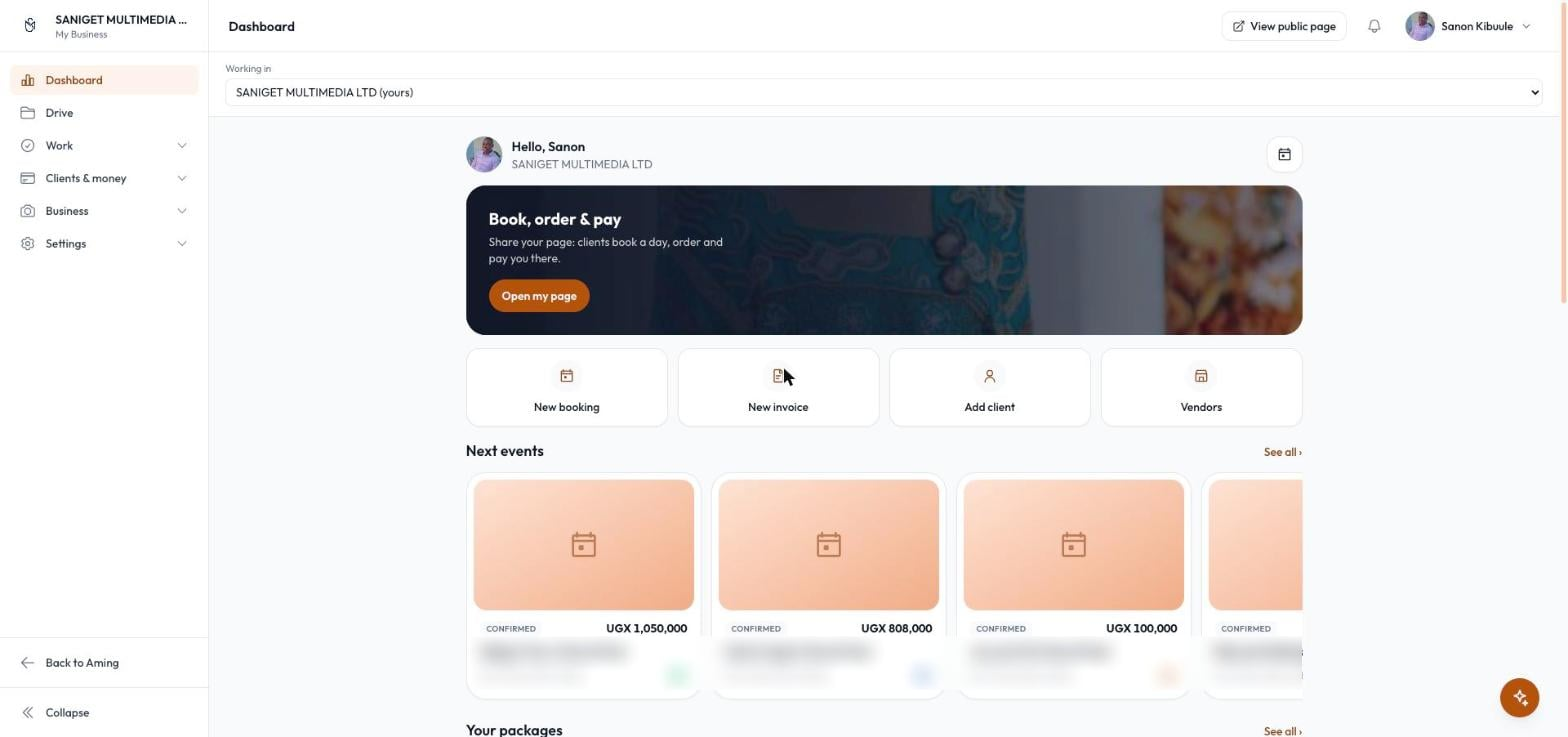
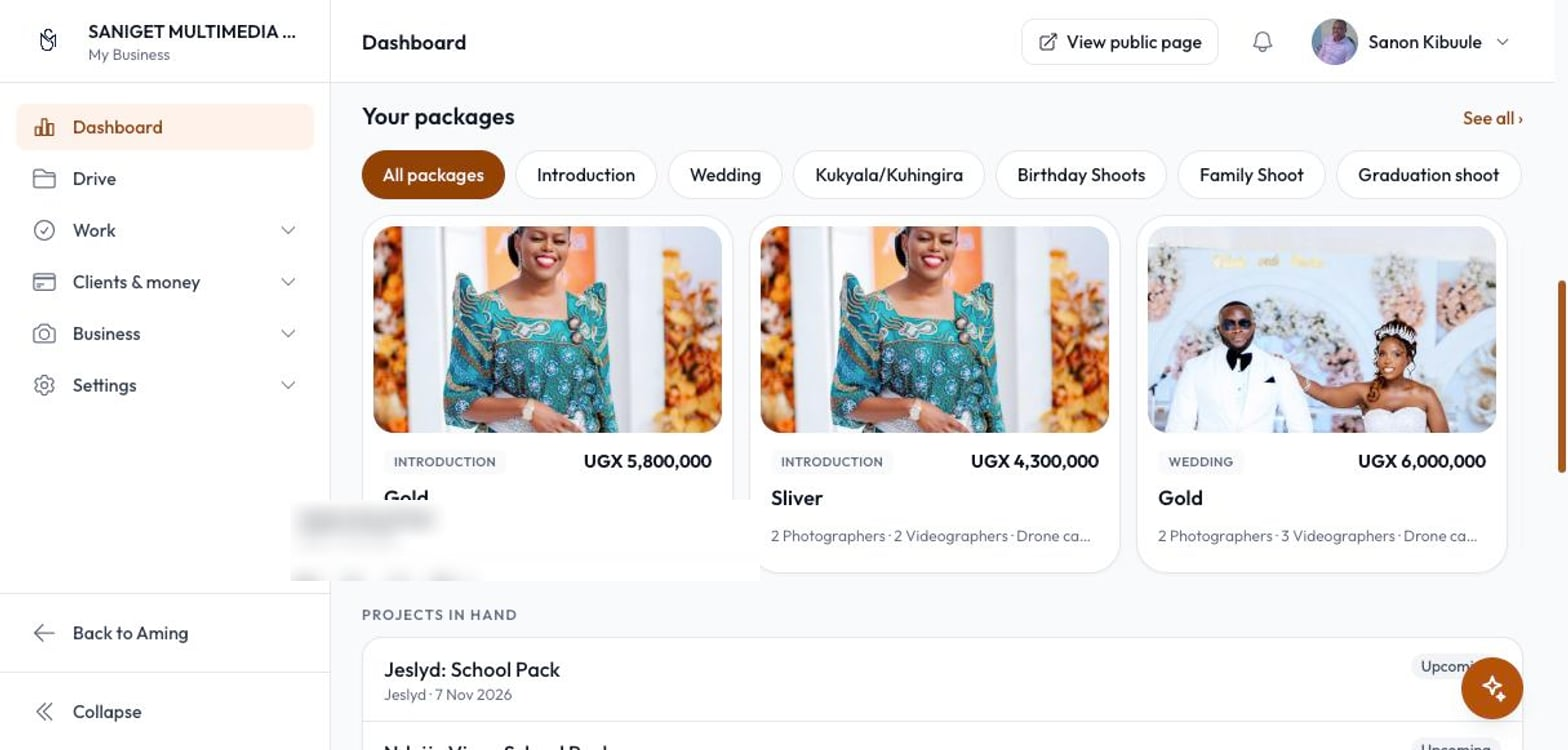
Front page: the walkthrough plays by itself like GitHub's (a bar fills under each tab, 6 s each; a click stops it; still for reduced motion), the Dashboard shot shows the packages, and a Drive section with a real studio's Drive (files up to 1 GB as uploaded, a folder per project, sharing like Google

diff --git a/apps/client/app/landing.tsx b/apps/client/app/landing.tsx
@@ -41,6 +41,15 @@ const MORE: { title: string; text: string; icon: ComponentType<{ className?: str
   { title: "Editors & vendors", text: "Hire photo editors, videographers and vendors for a job.", icon: WorkersIcon },
 ];
 
+/** What Drive does (packages/lib/files/README.md), for its section. */
+const DRIVE: [string, string][] = [
+  ["Files up to 1 GB, kept as uploaded", "Any type: RAW, video, zips, PDFs. Nothing is shrunk or split, and big uploads carry on in the background."],
+  ["A folder for every project, by itself", "Each booking you turn into a project gets its folder. Make your own folders, as deep as you like."],
+  ["Share like Google Drive", "With a client on their page, with your team, or with anyone who has the link. Viewer, contributor or editor, and downloads on or off."],
+  ["Proofs that protect your work", "Photos still in production show watermarked, with saving and printing blocked. Clients never get the original until you say."],
+  ["Fast to open, easy to hand over", "Folders open on light previews with location details removed. Download chosen files or a whole folder as a zip."],
+];
+
 type Studio = { id: string; name: string; slug: string; logoUrl: string | null; brandColor: string | null; cover: string; albums: number; photos: number };
 
 /** Each studio in the feed once, with its first cover and how much it shows; the most photos first. */
@@ -104,6 +113,7 @@ export async function Landing() {
             <nav aria-label="Main" className="hidden items-center gap-1 text-sm lg:flex">
               {[
                 ["Platform", "#platform"],
+                ["Drive", "#drive"],
                 ["Studios", "#studios"],
                 ["Work", "#work"],
               ].map(([label, href]) => (
@@ -225,7 +235,7 @@ export async function Landing() {
                 <div className="mt-auto grid grid-cols-3 gap-2 px-8 pb-8 sm:px-10 sm:pb-10">
                   {studios.slice(0, 3).map((s) => (
                     // eslint-disable-next-line @next/next/no-img-element -- signed storage link, already resized
-                    <img key={s.id} src={s.cover} alt="" loading="lazy" className="aspect-[3/4] w-full rounded-xl object-cover" />
+                    <img key={s.id} src={s.cover} alt="" loading="lazy" className="aspect-[4/3] w-full rounded-xl object-cover" />
                   ))}
                 </div>
               ) : null}
@@ -246,13 +256,46 @@ export async function Landing() {
                   {prints.slice(0, 3).map((p) => (
                     <Link key={p.id} href={`/${encodeURIComponent(p.slug)}`} prefetch={false} className="group block">
                       {/* eslint-disable-next-line @next/next/no-img-element -- product photo */}
-                      <img src={p.display_image_url!} alt="" loading="lazy" className="aspect-[3/4] w-full rounded-xl object-cover transition-opacity group-hover:opacity-80" />
+                      <img src={p.display_image_url!} alt="" loading="lazy" className="aspect-[4/3] w-full rounded-xl bg-background object-contain p-1.5 transition-opacity group-hover:opacity-80" />
                       <span className="mt-2 block truncate text-xs font-medium text-muted">{p.name}</span>
                     </Link>
                   ))}
                 </div>
               ) : null}
             </article>
+          </div>
+        </section>
+
+        {/* Drive, on its own: what it does for a studio's files, beside a real studio's Drive. */}
+        <section id="drive" className="scroll-mt-16 border-y border-border bg-surface">
+          <div className={`${WRAP} grid items-center gap-12 py-20 sm:py-28 lg:grid-cols-[5fr_7fr]`}>
+            <div>
+              <p className="text-sm font-semibold tracking-widest text-brand-600 uppercase dark:text-brand-400">Drive</p>
+              <h2 className="mt-3 text-4xl font-extrabold tracking-tight sm:text-5xl">Every file in one place, shared the right way.</h2>
+              <p className="mt-4 text-lg text-muted">Raw shoots, edits, contracts and videos, kept in folders next to your bookings and clients. No more sending files around WhatsApp or chasing flash drives.</p>
+              <ul className="mt-8 space-y-5">
+                {DRIVE.map(([title, text]) => (
+                  <li key={title} className="flex gap-3">
+                    <svg aria-hidden viewBox="0 0 20 20" fill="currentColor" className="mt-0.5 h-5 w-5 shrink-0 text-brand-500">
+                      <path fillRule="evenodd" d="M16.7 5.3a1 1 0 0 1 0 1.4l-8 8a1 1 0 0 1-1.4 0l-4-4a1 1 0 1 1 1.4-1.4L8 12.58l7.3-7.3a1 1 0 0 1 1.4 0Z" clipRule="evenodd" />
+                    </svg>
+                    <span>
+                      <span className="font-semibold">{title}</span>
+                      <span className="mt-0.5 block text-sm text-muted">{text}</span>
+                    </span>
+                  </li>
+                ))}
+              </ul>
+            </div>
+            <div className="overflow-hidden rounded-2xl border border-border bg-background shadow-theme-xl">
+              <div aria-hidden className="flex items-center gap-1.5 border-b border-border px-4 py-3">
+                <span className="h-2.5 w-2.5 rounded-full bg-error-500/70" />
+                <span className="h-2.5 w-2.5 rounded-full bg-warning-500/70" />
+                <span className="h-2.5 w-2.5 rounded-full bg-success-500/70" />
+              </div>
+              {/* eslint-disable-next-line @next/next/no-img-element -- static screenshot */}
+              <img src="/landing/drive.jpg" alt="A studio's Drive on Aming Space: a folder of photos with Share, New folder and Upload" loading="lazy" className="block w-full" />
+            </div>
           </div>
         </section>
 

diff --git a/apps/client/app/landing-walkthrough.tsx b/apps/client/app/landing-walkthrough.tsx
@@ -1,12 +1,15 @@
 "use client";
 
-import { useState } from "react";
-
-import { Tabs } from "@repo/ui/Tabs";
+import { useEffect, useState } from "react";
 
 // The product walkthrough on Aming's front page (landing.tsx), like
 // GitHub's: tabs over one big framed screenshot of a real studio's
-// workspace. The pictures are in public/landing/walkthrough.
+// workspace, playing by itself. Each tab shows for STEP_MS with a bar
+// filling under it (globals.css), then the next; choosing a tab stops the
+// play, and it never plays for reduced motion. The pictures are in
+// public/landing/walkthrough.
+
+const STEP_MS = 6000;
 
 const SHOTS = [
   { key: "dashboard", label: "Dashboard", caption: "Everything waiting on you, the next shoots and your packages." },
@@ -16,14 +19,40 @@ const SHOTS = [
   { key: "page", label: "Your page", caption: "Your public page, under your name, logo and colors." },
 ] as const;
 
-type Key = (typeof SHOTS)[number]["key"];
-
 export function LandingWalkthrough() {
-  const [shown, setShown] = useState<Key>("dashboard");
-  const shot = SHOTS.find((s) => s.key === shown)!;
+  const [index, setIndex] = useState(0);
+  const [playing, setPlaying] = useState(true);
+
+  useEffect(() => {
+    if (!playing || window.matchMedia("(prefers-reduced-motion: reduce)").matches) return;
+    const timer = setTimeout(() => setIndex((i) => (i + 1) % SHOTS.length), STEP_MS);
+    return () => clearTimeout(timer);
+  }, [index, playing]);
+
   return (
     <div>
-      <Tabs label="Aming Space, part by part" tabs={SHOTS.map(({ key, label }) => ({ key, label }))} value={shown} onChange={setShown} />
+      <div role="tablist" aria-label="Aming Space, part by part" className="flex overflow-x-auto border-b border-border">
+        {SHOTS.map((s, i) => (
+          <button
+            key={s.key}
+            type="button"
+            role="tab"
+            aria-selected={i === index}
+            onClick={() => {
+              setIndex(i);
+              setPlaying(false);
+            }}
+            className={`relative shrink-0 px-4 py-3 text-sm font-medium transition-colors ${i === index ? "text-foreground" : "text-muted hover:text-foreground"}`}
+          >
+            {s.label}
+            {i === index ? (
+              <span aria-hidden className="absolute inset-x-0 -bottom-px h-0.5">
+                <span key={`${index}-${playing}`} className={`block h-full bg-brand-500 ${playing ? "landing-walkthrough-fill" : ""}`} style={{ animationDuration: `${STEP_MS}ms` }} />
+              </span>
+            ) : null}
+          </button>
+        ))}
+      </div>
       <figure className="mt-6">
         <div className="overflow-hidden rounded-2xl border border-border bg-surface shadow-theme-xl">
           {/* A browser bar, so it reads as the app it is. */}
@@ -32,10 +61,21 @@ export function LandingWalkthrough() {
             <span className="h-2.5 w-2.5 rounded-full bg-warning-500/70" />
             <span className="h-2.5 w-2.5 rounded-full bg-success-500/70" />
           </div>
-          {/* eslint-disable-next-line @next/next/no-img-element -- static screenshot */}
-          <img key={shot.key} src={`/landing/walkthrough/${shot.key}.jpg`} alt={`Aming Space: ${shot.label}`} className="block aspect-[1568/737] w-full object-cover object-top" />
+          {/* All five stacked, the shown one faded in, so switching never waits on a download. */}
+          <div className="relative aspect-[1568/737]">
+            {SHOTS.map((s, i) => (
+              // eslint-disable-next-line @next/next/no-img-element -- static screenshot
+              <img
+                key={s.key}
+                src={`/landing/walkthrough/${s.key}.jpg`}
+                alt={i === index ? `Aming Space: ${s.label}` : ""}
+                aria-hidden={i !== index}
+                className={`absolute inset-0 h-full w-full object-cover object-top transition-opacity duration-500 ${i === index ? "opacity-100" : "opacity-0"}`}
+              />
+            ))}
+          </div>
         </div>
-        <figcaption className="mt-4 text-center text-sm text-muted">{shot.caption}</figcaption>
+        <figcaption className="mt-4 text-center text-sm text-muted">{SHOTS[index].caption}</figcaption>
       </figure>
     </div>
   );

diff --git a/apps/client/app/globals.css b/apps/client/app/globals.css
@@ -32,3 +32,16 @@
 @media (prefers-reduced-motion: reduce) {
   .landing-marquee { animation: none; }
 }
+
+/* The front page's walkthrough (landing-walkthrough.tsx): the bar under the
+   shown tab fills while it plays; the tab's own timer moves on. */
+@keyframes landing-walkthrough-fill {
+  from { width: 0; }
+  to { width: 100%; }
+}
+.landing-walkthrough-fill {
+  animation: landing-walkthrough-fill linear forwards;
+}
+@media (prefers-reduced-motion: reduce) {
+  .landing-walkthrough-fill { animation: none; width: 100%; }
+}
